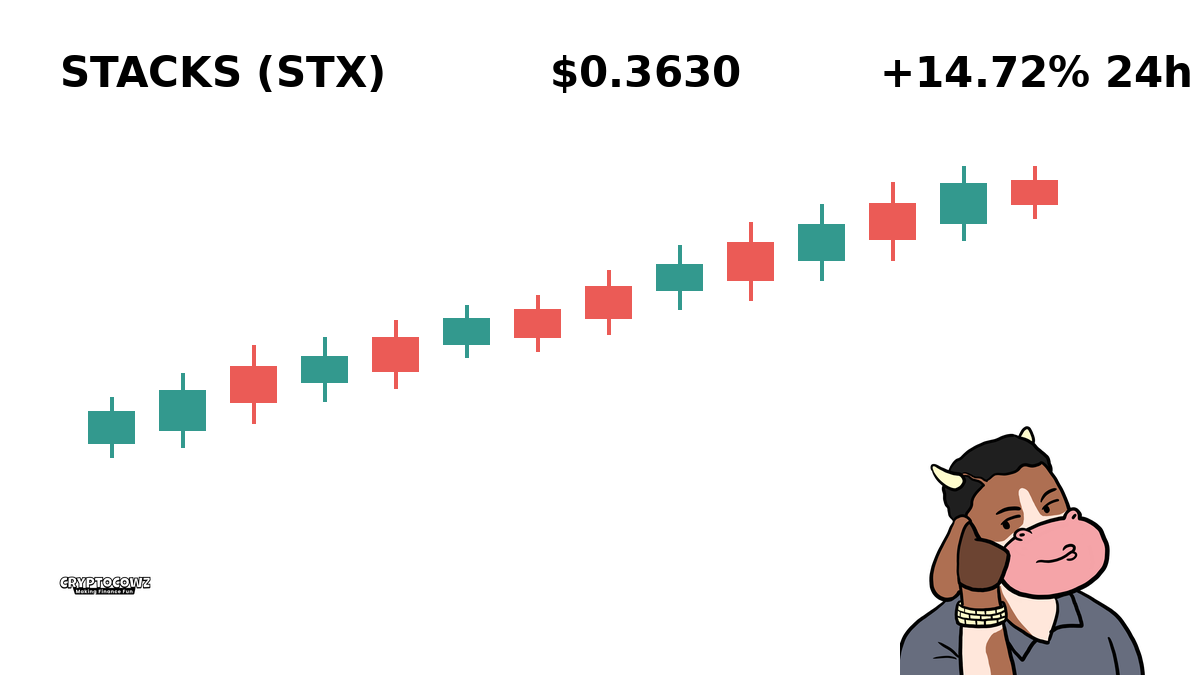
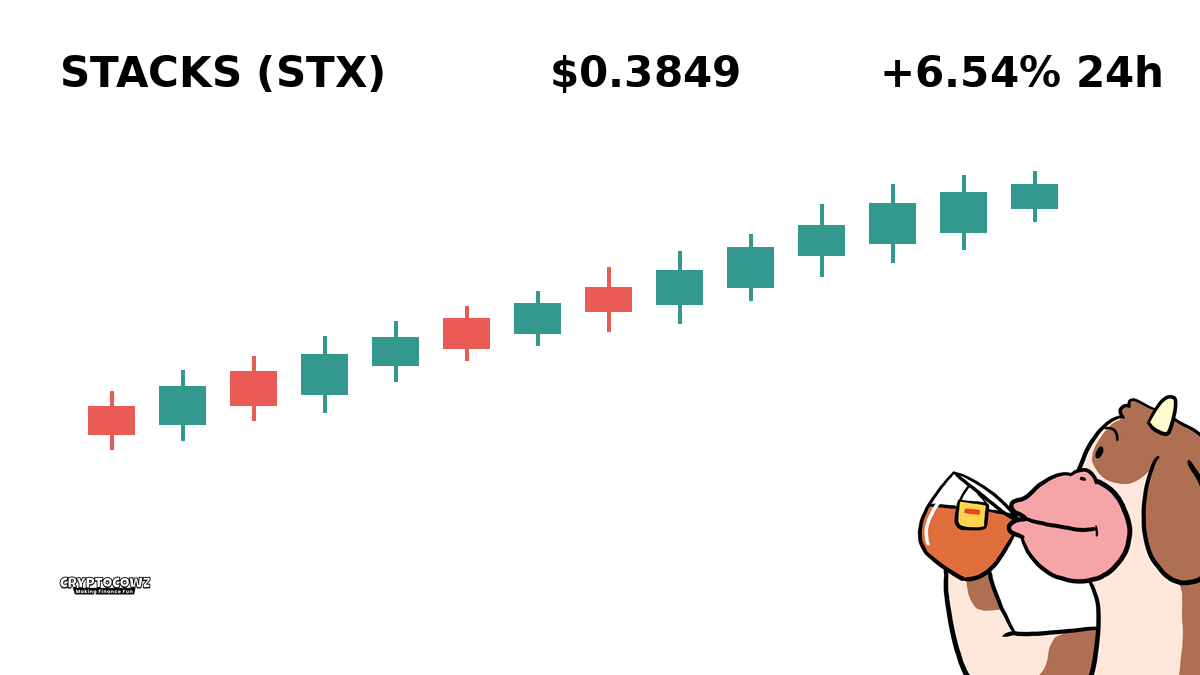
Auto-generate daily 10 CMC graphics & cleanup old images [skip ci]

diff --git a/output/cmc_prompts_latest.md b/output/cmc_prompts_latest.md
@@ -1,81 +1,81 @@
 # Daily Top Movers: CMC Community Visuals & Posts
 
-## 1. Quant ($QNT) — +20.33% (PUMP)
-**Cast Member:** Skip Zinfandel
-**CMC Comment:** Interoperability just bought me another jet ski! If you aren't all-in on enterprise tech, enjoy staying broke at the local kids table.
+## 1. Bitway ($BTW) — +7.79% (PUMP)
+**Cast Member:** Frank Rizzo
+**CMC Comment:** Up nearly 8% and I've already quit my day job to focus full-time on staring at this candle.
 
-![QNT Graphic](images/01_PUMP_QNT.png)
+![BTW Graphic](images/01_PUMP_BTW.png)
 
 ---
 
-## 2. Stacks ($STX) — +14.72% (PUMP)
-**Cast Member:** Professor Hartmut
-**CMC Comment:** Smart contracts on Bitcoin represent a fundamental paradigm shift that my theoretical model predicted three whitepapers ago.
+## 2. Stacks ($STX) — +6.54% (PUMP)
+**Cast Member:** Skip Zinfandel
+**CMC Comment:** We are stacking gains so high my third ex-wife just texted me asking if I still have the keys to the boat.
 
 ![STX Graphic](images/02_PUMP_STX.png)
 
 ---
 
-## 3. NEAR Protocol ($NEAR) — +10.68% (PUMP)
-**Cast Member:** Sunshine Innocent Nimbus
-**CMC Comment:** Wow, NEAR is getting so close to us all! I think the universe is sending us green energy arrows to heal our digital wallets.
-
-![NEAR Graphic](images/03_PUMP_NEAR.png)
-
----
-
-## 4. Worldcoin ($WLD) — +9.09% (PUMP)
-**Cast Member:** Skip Zinfandel
-**CMC Comment:** I scanned both eyes and my third eye for this pump! Cybernetic perfection meets generational wealth, let's keep buying!
-
-![WLD Graphic](images/04_PUMP_WLD.png)
-
----
-
-## 5. Ethena ($ENA) — +9.0% (PUMP)
-**Cast Member:** Frank Rizzo
-**CMC Comment:** Synthetic dollars? Listen pal, green is green and my bank account doesn't care if it came from an algorithm or a printing press.
-
-![ENA Graphic](images/05_PUMP_ENA.png)
-
----
-
-## 6. Stable ($STABLE) — -3.37% (DUMP)
-**Cast Member:** Frank Rizzo
-**CMC Comment:** Named 'Stable' and it immediately drops. Hey genius, my mother-in-law's blood pressure is more stable than this trash.
-
-![STABLE Graphic](images/06_DUMP_STABLE.png)
-
----
-
-## 7. Rain ($RAIN) — -3.48% (DUMP)
-**Cast Member:** Sunshine Innocent Nimbus
-**CMC Comment:** Rain drops are falling on my portfolio... but every storm brings flowers eventually, right guys?
-
-![RAIN Graphic](images/07_DUMP_RAIN.png)
-
----
-
-## 8. Aave ($AAVE) — -3.78% (DUMP)
+## 3. Aave ($AAVE) — +6.3% (PUMP)
 **Cast Member:** Professor Hartmut
-**CMC Comment:** Liquidity protocols experiencing localized yield compression is a standard macro stress test, though bagholders seem visibly agitated.
+**CMC Comment:** A fascinating liquidity surge proving that leverage is merely financial gravity waiting to be briefly defied.
 
-![AAVE Graphic](images/08_DUMP_AAVE.png)
+![AAVE Graphic](images/03_PUMP_AAVE.png)
 
 ---
 
-## 9. Sky ($SKY) — -7.91% (DUMP)
+## 4. Sky ($SKY) — +5.26% (PUMP)
+**Cast Member:** Sunshine Innocent Nimbus
+**CMC Comment:** The sky is literally the limit when we all believe together and ignore the sell button!
+
+![SKY Graphic](images/04_PUMP_SKY.png)
+
+---
+
+## 5. Pepe ($PEPE) — +2.81% (PUMP)
 **Cast Member:** Skip Zinfandel
-**CMC Comment:** Rebranded from Maker and the sky is literally falling! Time to rebrand again to 'Underground' so we can hit rock bottom properly.
+**CMC Comment:** A green frog printing green gains is the exact economic indicator my portfolio needed today.
 
-![SKY Graphic](images/09_DUMP_SKY.png)
+![PEPE Graphic](images/05_PUMP_PEPE.png)
 
 ---
 
-## 10. Lighter ($LIT) — -10.96% (DUMP)
-**Cast Member:** Frank Rizzo
-**CMC Comment:** Down eleven percent? More like lighter on cash! Get this dumpster fire out of my sight before I blow a fuse.
+## 6. Zcash ($ZEC) — -5.99% (DUMP)
+**Cast Member:** Professor Hartmut
+**CMC Comment:** Privacy coins allow one to lose money in absolute secrecy, which is the only dignity left in this market.
 
-![LIT Graphic](images/10_DUMP_LIT.png)
+![ZEC Graphic](images/06_DUMP_ZEC.png)
+
+---
+
+## 7. Ether.fi ($ETHFI) — -6.02% (DUMP)
+**Cast Member:** Frank Rizzo
+**CMC Comment:** Restaking my ETH just so I can earn yield on my catastrophic unrealized losses.
+
+![ETHFI Graphic](images/07_DUMP_ETHFI.png)
+
+---
+
+## 8. Worldcoin ($WLD) — -6.4% (DUMP)
+**Cast Member:** Sunshine Innocent Nimbus
+**CMC Comment:** Scanning my eyeballs didn't stop the red numbers, but at least the Orb says I have a beautiful iris!
+
+![WLD Graphic](images/08_DUMP_WLD.png)
+
+---
+
+## 9. NEAR Protocol ($NEAR) — -8.09% (DUMP)
+**Cast Member:** Frank Rizzo
+**CMC Comment:** NEAR Protocol? More like NEARly broke after watching this bag drop another 8%.
+
+![NEAR Graphic](images/09_DUMP_NEAR.png)
+
+---
+
+## 10. Quant ($QNT) — -9.37% (DUMP)
+**Cast Member:** Skip Zinfandel
+**CMC Comment:** Institutional adoption is coming, right after I finish liquidating my blood plasma to cover margin.
+
+![QNT Graphic](images/10_DUMP_QNT.png)
 
 ---
